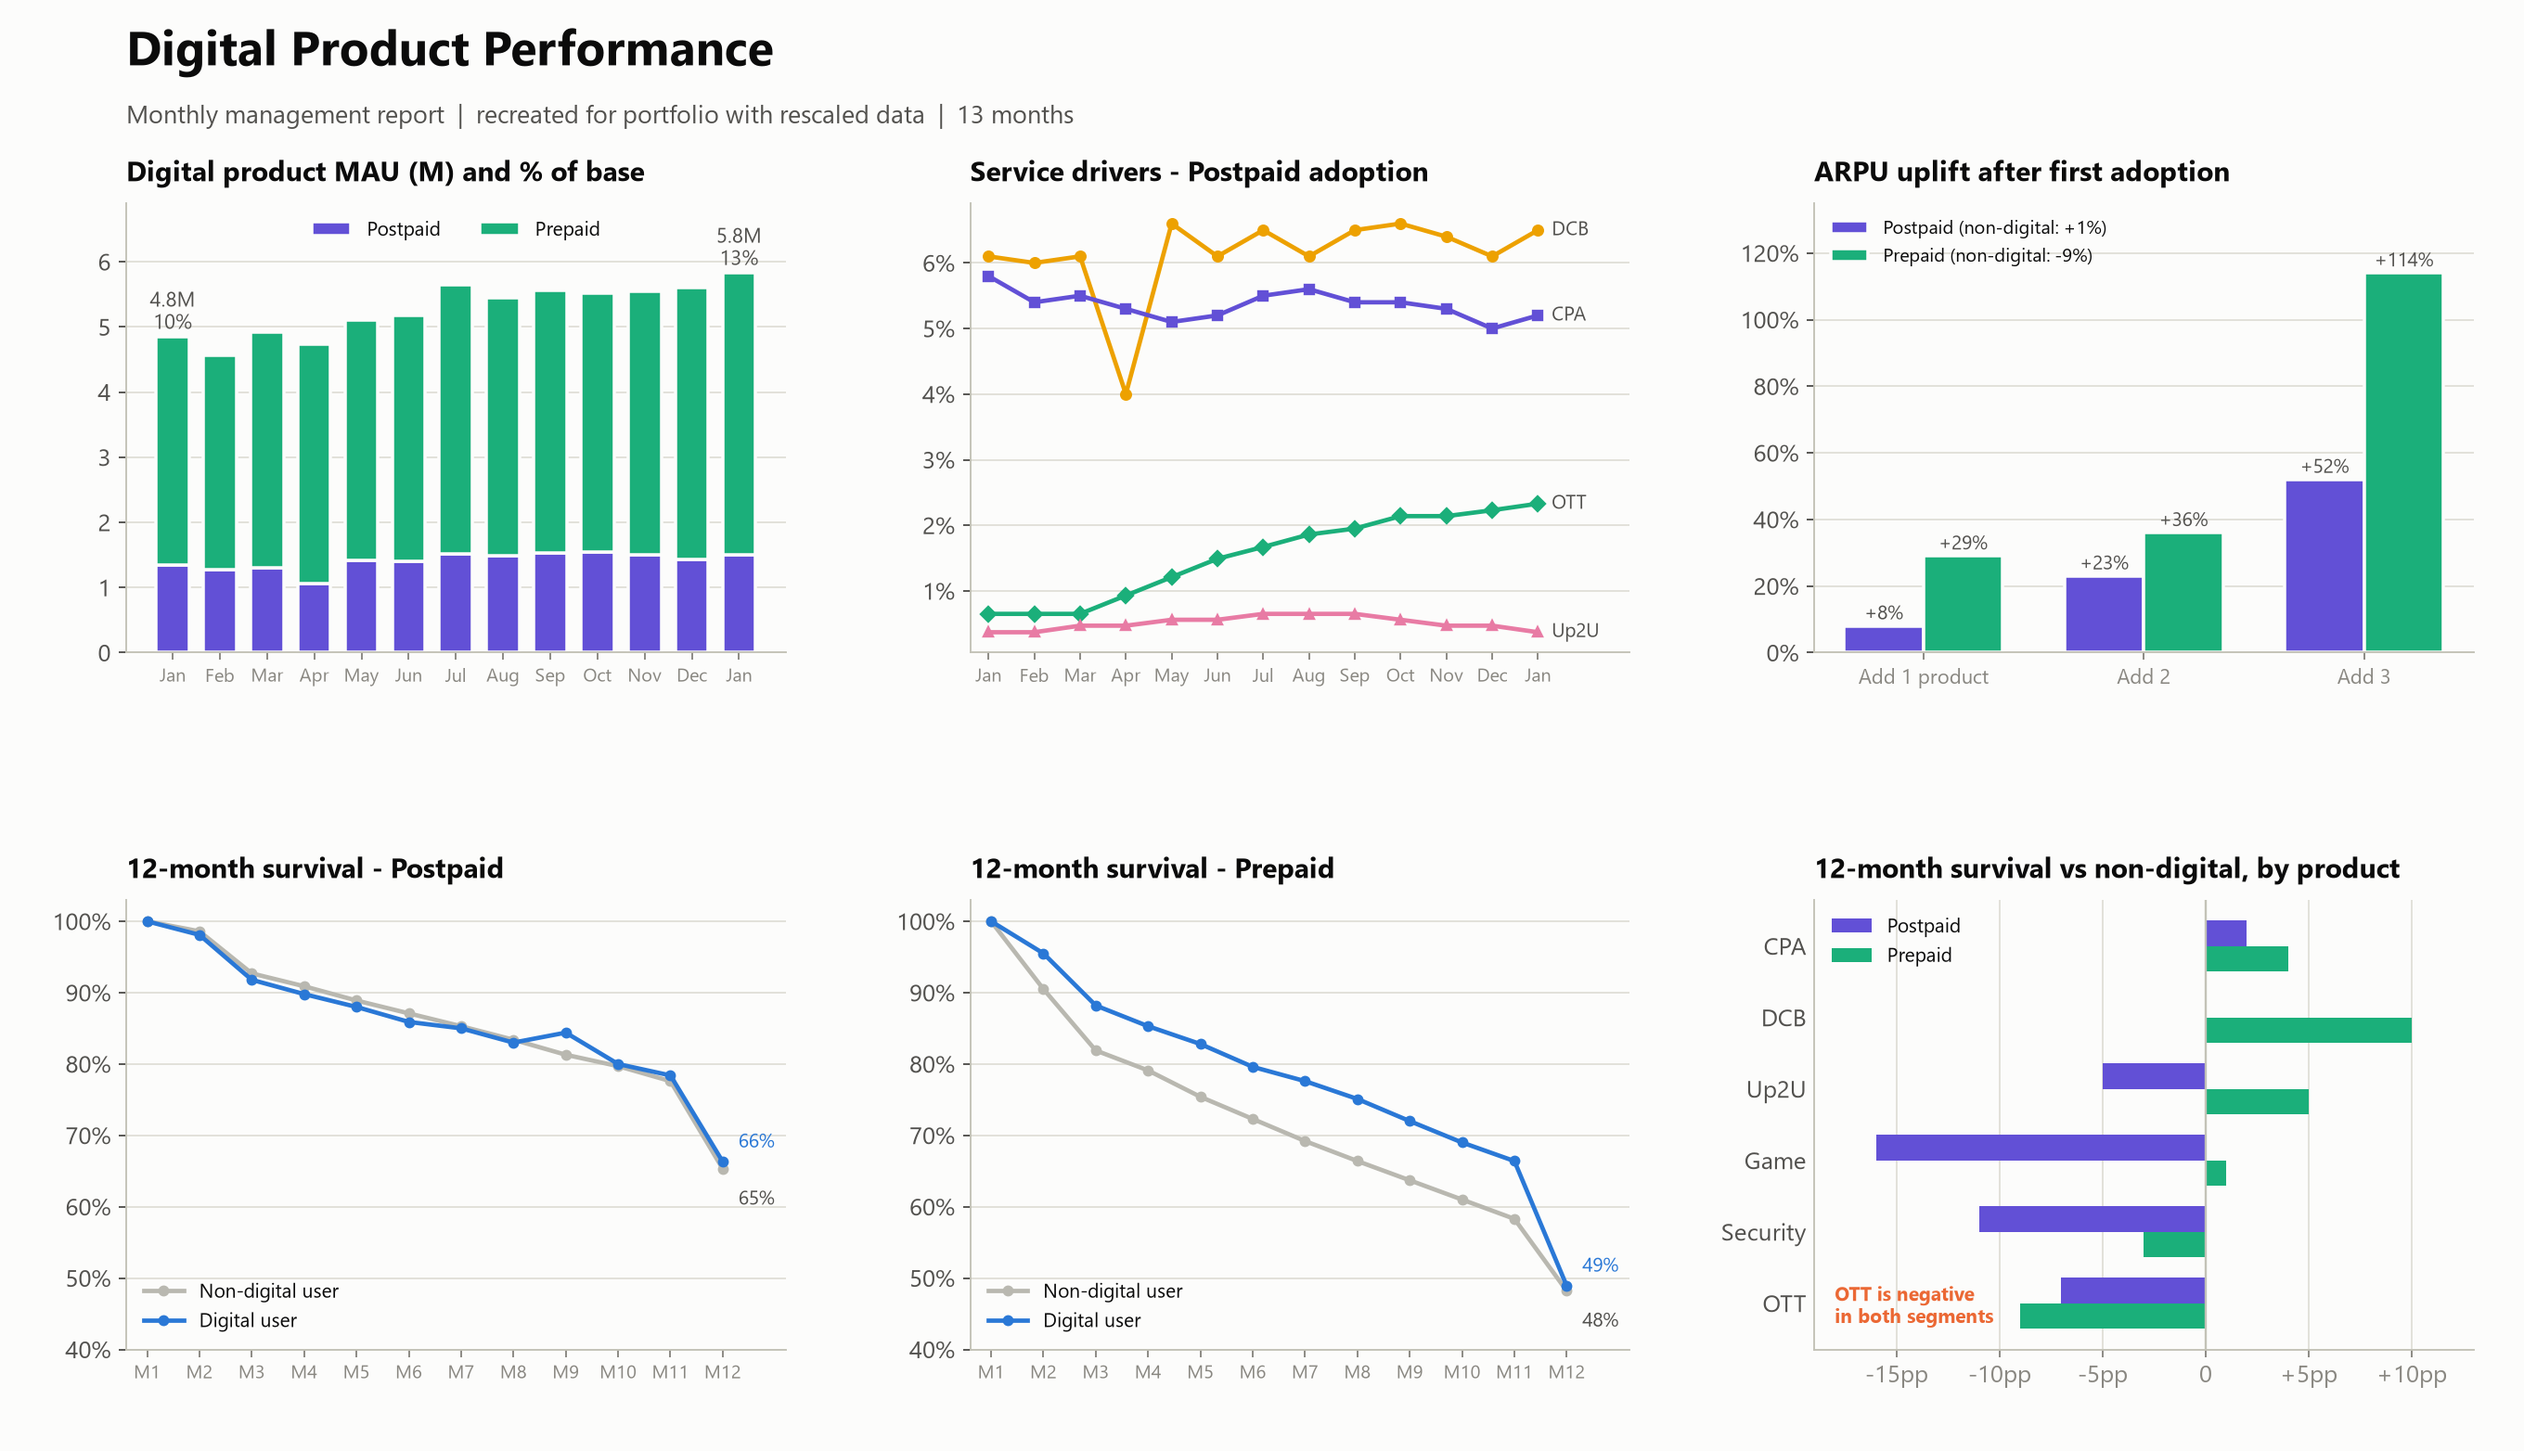
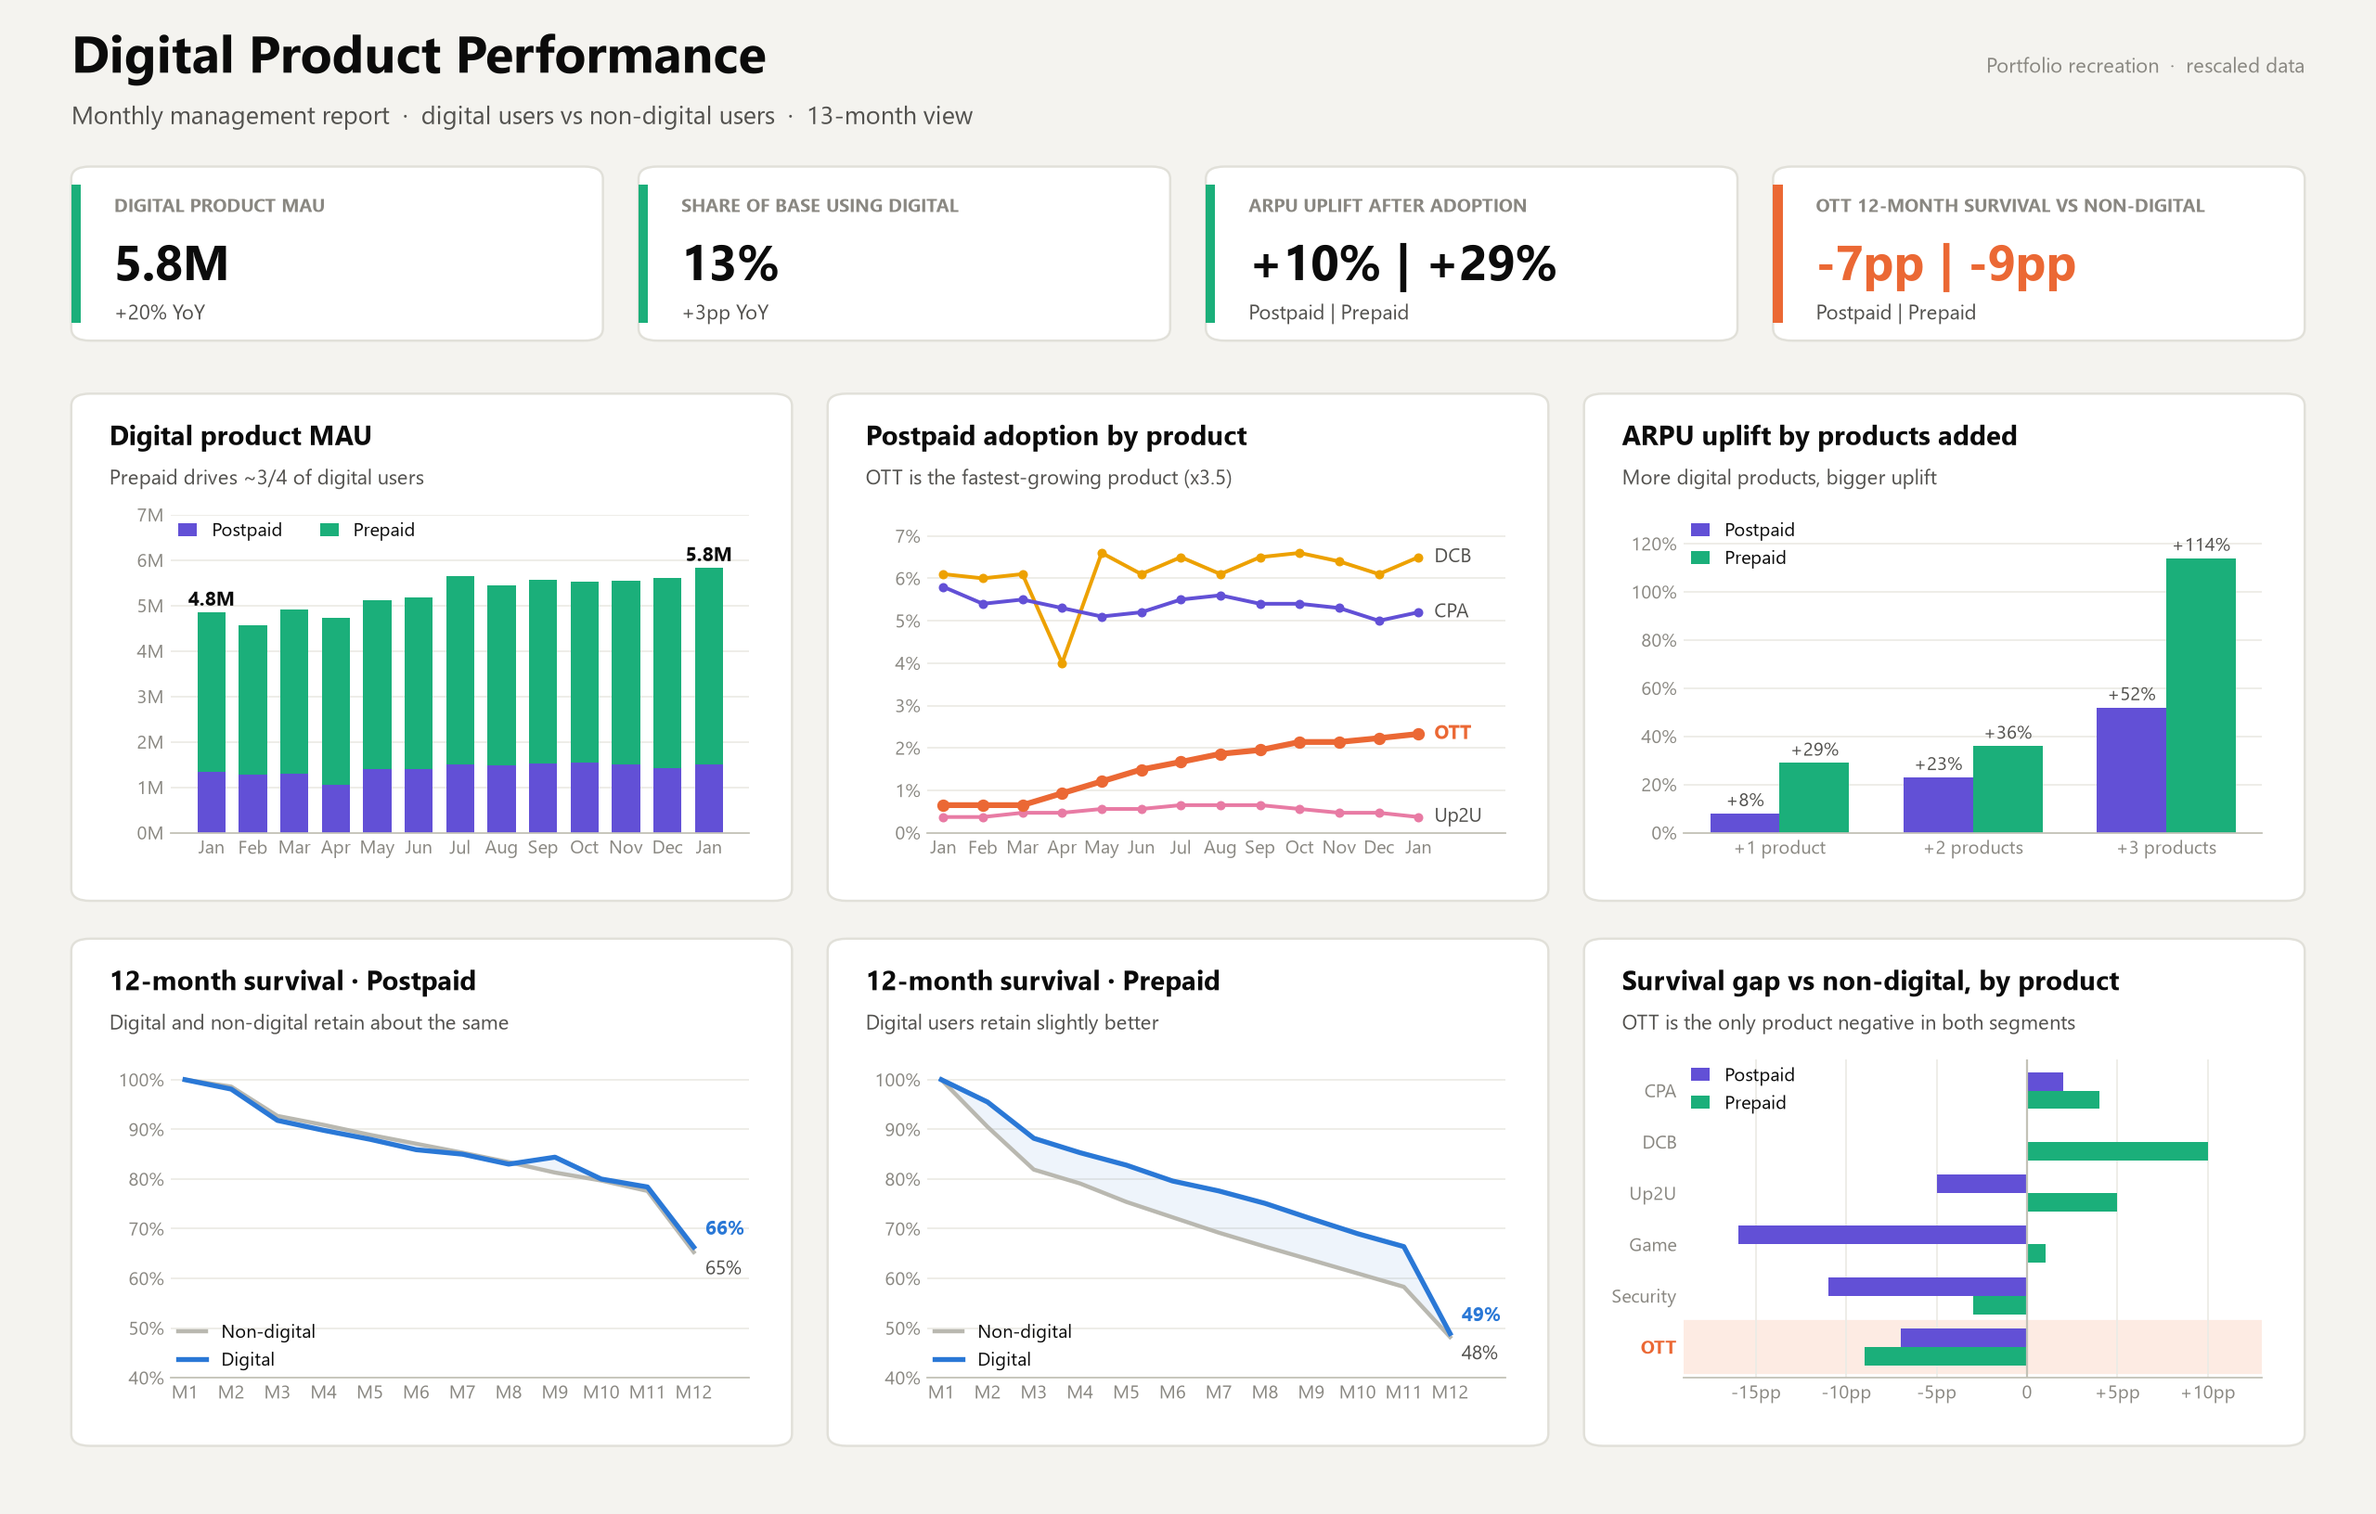
Redesign report visuals as a dashboard-style page

diff --git a/docs/make_charts.py b/docs/make_charts.py
@@ -38,6 +38,9 @@ def grid_y(ax):
     ax.grid(axis="y", color=GRID, lw=0.8); ax.set_axisbelow(True)
 
 # ---------------------------------------------------------------- 00 one-page report (Part 1)
+from matplotlib.patches import FancyBboxPatch
+
+PAGE, CARD, LINE = "#f4f3ef", "#ffffff", "#e1e0d9"
 MON = ["Jan", "Feb", "Mar", "Apr", "May", "Jun", "Jul", "Aug", "Sep", "Oct", "Nov", "Dec", "Jan"]
 mau_po = [1.34, 1.28, 1.30, 1.06, 1.41, 1.40, 1.51, 1.49, 1.53, 1.54, 1.50, 1.43, 1.50]
 mau_pp = [3.51, 3.28, 3.62, 3.68, 3.70, 3.78, 4.13, 3.96, 4.03, 3.98, 4.05, 4.18, 4.33]
@@ -46,72 +49,112 @@ drv = {"DCB": [.061, .060, .061, .040, .066, .061, .065, .061, .065, .066, .064,
        "CPA": [.058, .054, .055, .053, .051, .052, .055, .056, .054, .054, .053, .050, .052],
        "OTT": [.0065, .0065, .0065, .0093, .0121, .0149, .0167, .0186, .0195, .0214, .0214, .0223, .0233],
        "Up2U": [.0037, .0037, .0047, .0047, .0056, .0056, .0065, .0065, .0065, .0056, .0047, .0047, .0037]}
-M = [f"M{i}" for i in range(1, 13)]
+M12 = [f"M{i}" for i in range(1, 13)]
 surv = {"po_dig": [1, .981, .918, .898, .880, .859, .850, .830, .844, .800, .784, .663],
         "po_non": [1, .986, .927, .909, .889, .871, .853, .834, .813, .797, .776, .653],
         "pp_dig": [1, .955, .882, .853, .828, .796, .776, .751, .720, .690, .664, .489],
         "pp_non": [1, .905, .819, .791, .754, .723, .692, .664, .637, .610, .583, .482]}
-gap_po = [("CPA", .02), ("DCB", .00), ("Up2U", -.05), ("OTT", -.07), ("Security", -.11), ("Game", -.16)]
-gap_pp = [("DCB", .10), ("Up2U", .05), ("CPA", .04), ("Game", .01), ("Security", -.03), ("OTT", -.09)]
+gap_po = {"CPA": .02, "DCB": .00, "Up2U": -.05, "Game": -.16, "Security": -.11, "OTT": -.07}
+gap_pp = {"CPA": .04, "DCB": .10, "Up2U": .05, "Game": .01, "Security": -.03, "OTT": -.09}
 
-fig = plt.figure(figsize=(16, 9.2))
-gs = fig.add_gridspec(2, 3, hspace=0.55, wspace=0.28, left=0.05, right=0.98, top=0.86, bottom=0.07)
-fig.text(0.05, 0.955, "Digital Product Performance", fontsize=22, fontweight="bold", color=INK)
-fig.text(0.05, 0.915, "Monthly management report  |  recreated for portfolio with rescaled data  |  13 months",
-         fontsize=11.5, color=INK2)
+fig = plt.figure(figsize=(16, 10.2), facecolor=PAGE)
 
-def panel(ax, t):
-    ax.set_title(t, loc="left", fontsize=12.5, fontweight="bold", color=INK, pad=10)
+def card(x, y, w, h):
+    fig.patches.append(FancyBboxPatch((x, y), w, h, boxstyle="round,pad=0,rounding_size=0.008",
+                                      transform=fig.transFigure, fc=CARD, ec=LINE, lw=1.1, zorder=-10))
 
-ax = fig.add_subplot(gs[0, 0]); panel(ax, "Digital product MAU (M) and % of base")
-ax.bar(range(13), mau_po, color=VIOLET, width=0.7, label="Postpaid", edgecolor=SURF, linewidth=1.5, zorder=2)
-ax.bar(range(13), mau_pp, bottom=mau_po, color=AQUA, width=0.7, label="Prepaid", edgecolor=SURF, linewidth=1.5, zorder=2)
+def styled(ax):
+    ax.set_facecolor(CARD)
+    for s in ("top", "right", "left"):
+        ax.spines[s].set_visible(False)
+    ax.spines["bottom"].set_color(AXIS)
+    ax.tick_params(axis="both", labelsize=9, length=0, colors=MUTED)
+    ax.grid(axis="y", color="#ecebe6", lw=0.8); ax.set_axisbelow(True)
+
+# header
+fig.text(0.03, 0.952, "Digital Product Performance", fontsize=25, fontweight="bold", color=INK)
+fig.text(0.03, 0.918, "Monthly management report  ·  digital users vs non-digital users  ·  13-month view", fontsize=12, color=INK2)
+fig.text(0.97, 0.952, "Portfolio recreation  ·  rescaled data", fontsize=10, color=MUTED, ha="right")
+
+# KPI tiles
+kpis = [("Digital product MAU", "5.8M", "+20% YoY", AQUA),
+        ("Share of base using digital", "13%", "+3pp YoY", AQUA),
+        ("ARPU uplift after adoption", "+10% | +29%", "Postpaid | Prepaid", AQUA),
+        ("OTT 12-month survival vs non-digital", "-7pp | -9pp", "Postpaid | Prepaid", ORANGE)]
+tw = (0.94 - 3 * 0.015) / 4
+for i, (lab, val, sub, c) in enumerate(kpis):
+    x = 0.03 + i * (tw + 0.015); y = 0.775; h = 0.115
+    card(x, y, tw, h)
+    fig.patches.append(plt.Rectangle((x, y + 0.012), 0.004, h - 0.024, transform=fig.transFigure, fc=c, ec="none", zorder=-5))
+    fig.text(x + 0.018, y + h - 0.03, lab.upper(), fontsize=9, color=MUTED, fontweight="bold")
+    fig.text(x + 0.018, y + 0.040, val, fontsize=24, fontweight="bold", color=ORANGE if c == ORANGE else INK)
+    fig.text(x + 0.018, y + 0.014, sub, fontsize=10, color=INK2)
+
+# panel grid
+pw = (0.94 - 2 * 0.015) / 3; ph = 0.335
+slots = [(0.03 + c * (pw + 0.015), 0.405 if r == 0 else 0.045) for r in range(2) for c in range(3)]
+
+def panel(i, t, takeaway):
+    x, y = slots[i]
+    card(x, y, pw, ph)
+    fig.text(x + 0.016, y + ph - 0.034, t, fontsize=13, fontweight="bold", color=INK)
+    fig.text(x + 0.016, y + ph - 0.06, takeaway, fontsize=10, color=INK2)
+    ax = fig.add_axes([x + 0.042, y + 0.045, pw - 0.06, ph - 0.125], zorder=5)
+    styled(ax)
+    return ax
+
+ax = panel(0, "Digital product MAU", "Prepaid drives ~3/4 of digital users")
+ax.bar(range(13), mau_po, color=VIOLET, width=0.68, label="Postpaid", zorder=2)
+ax.bar(range(13), mau_pp, bottom=mau_po, color=AQUA, width=0.68, label="Prepaid", zorder=2)
 for i in (0, 12):
-    tot = mau_po[i] + mau_pp[i]
-    ax.text(i, tot + 0.12, f"{tot:.1f}M\n{dig_pct[i]:.0%}", ha="center", fontsize=9.5, color=INK2)
-ax.set_xticks(range(13), MON, fontsize=8.5); ax.set_ylim(0, 6.9); grid_y(ax)
-ax.legend(frameon=False, fontsize=9, loc="upper center", ncol=2)
+    ax.text(i, mau_po[i] + mau_pp[i] + 0.15, f"{mau_po[i]+mau_pp[i]:.1f}M", ha="center", fontsize=9.5, color=INK, fontweight="bold")
+ax.set_xticks(range(13), MON); ax.set_ylim(0, 7); ax.yaxis.set_major_formatter(FuncFormatter(lambda v, _: f"{v:.0f}M"))
+ax.legend(frameon=False, fontsize=9, loc="upper left", ncol=2, handlelength=1, borderaxespad=0)
 
-ax = fig.add_subplot(gs[0, 1]); panel(ax, "Service drivers - Postpaid adoption")
-for (k, ys), c, mk in zip(drv.items(), [YELLOW, VIOLET, AQUA, MAGENTA], ["o", "s", "D", "^"]):
-    ax.plot(range(13), ys, color=c, lw=2, marker=mk, ms=4.5, label=k)
-    ax.text(12.3, ys[-1], k, fontsize=9, color=INK2, va="center")
-ax.set_xticks(range(13), MON, fontsize=8.5); ax.set_xlim(-0.4, 14)
-ax.yaxis.set_major_formatter(PercentFormatter(1, decimals=0)); grid_y(ax)
+ax = panel(1, "Postpaid adoption by product", "OTT is the fastest-growing product (x3.5)")
+for (k, ys), c in zip(drv.items(), [YELLOW, VIOLET, ORANGE, MAGENTA]):
+    lw = 2.8 if k == "OTT" else 1.8
+    ax.plot(range(13), ys, color=c, lw=lw, marker="o", ms=3.5 if k != "OTT" else 5, zorder=3 if k == "OTT" else 2)
+    ax.text(12.4, ys[-1], k, fontsize=9.5, color=c if k == "OTT" else INK2, va="center", fontweight="bold" if k == "OTT" else "normal")
+ax.set_xticks(range(13), MON); ax.set_xlim(-0.4, 14.2); ax.set_ylim(0, 0.075)
+ax.yaxis.set_major_formatter(PercentFormatter(1, decimals=0))
 
-ax = fig.add_subplot(gs[0, 2]); panel(ax, "ARPU uplift after first adoption")
-cats = ["Add 1 product", "Add 2", "Add 3"]; po = [.08, .23, .52]; pp = [.29, .36, 1.14]
+ax = panel(2, "ARPU uplift by products added", "More digital products, bigger uplift")
+cats = ["+1 product", "+2 products", "+3 products"]; po = [.08, .23, .52]; pp = [.29, .36, 1.14]
 x = range(3); w = 0.36
-b1 = ax.bar([i - w / 2 for i in x], po, w, color=VIOLET, label="Postpaid (non-digital: +1%)", edgecolor=SURF, linewidth=1.5, zorder=2)
-b2 = ax.bar([i + w / 2 for i in x], pp, w, color=AQUA, label="Prepaid (non-digital: -9%)", edgecolor=SURF, linewidth=1.5, zorder=2)
+b1 = ax.bar([i - w / 2 for i in x], po, w, color=VIOLET, label="Postpaid", zorder=2)
+b2 = ax.bar([i + w / 2 for i in x], pp, w, color=AQUA, label="Prepaid", zorder=2)
 for bars in (b1, b2):
     for b in bars:
-        ax.text(b.get_x() + b.get_width() / 2, b.get_height() + 0.02, f"+{b.get_height():.0%}", ha="center", fontsize=9, color=INK2)
-ax.set_xticks(list(x), cats, fontsize=9.5); ax.yaxis.set_major_formatter(PercentFormatter(1, decimals=0))
-ax.set_ylim(0, 1.35); grid_y(ax); ax.legend(frameon=False, fontsize=8.5, loc="upper left")
+        ax.text(b.get_x() + b.get_width() / 2, b.get_height() + 0.03, f"+{b.get_height():.0%}", ha="center", fontsize=9, color=INK2)
+ax.set_xticks(list(x), cats); ax.yaxis.set_major_formatter(PercentFormatter(1, decimals=0)); ax.set_ylim(0, 1.32)
+ax.legend(frameon=False, fontsize=9, loc="upper left", handlelength=1, borderaxespad=0)
 
-for col, seg in [(0, "po"), (1, "pp")]:
-    ax = fig.add_subplot(gs[1, col]); panel(ax, f"12-month survival - {'Postpaid' if seg == 'po' else 'Prepaid'}")
-    ax.plot(M, surv[f"{seg}_non"], color=GRAY, lw=2, marker="o", ms=4, label="Non-digital user")
-    ax.plot(M, surv[f"{seg}_dig"], color=BLUE, lw=2, marker="o", ms=4, label="Digital user")
-    ax.text(11.3, surv[f"{seg}_dig"][-1] + 0.02, f"{surv[f'{seg}_dig'][-1]:.0%}", fontsize=9, color=BLUE)
-    ax.text(11.3, surv[f"{seg}_non"][-1] - 0.05, f"{surv[f'{seg}_non'][-1]:.0%}", fontsize=9, color=INK2)
-    ax.set_xlim(-0.4, 12.2); ax.set_ylim(0.4, 1.03); ax.tick_params(axis="x", labelsize=8.5)
-    ax.yaxis.set_major_formatter(PercentFormatter(1, decimals=0)); grid_y(ax)
-    ax.legend(frameon=False, fontsize=9, loc="lower left")
+for idx, seg, take in [(3, "po", "Digital and non-digital retain about the same"), (4, "pp", "Digital users retain slightly better")]:
+    ax = panel(idx, f"12-month survival · {'Postpaid' if seg == 'po' else 'Prepaid'}", take)
+    d, n = surv[f"{seg}_dig"], surv[f"{seg}_non"]
+    ax.fill_between(range(12), d, n, color=BLUE, alpha=0.08, lw=0)
+    ax.plot(range(12), n, color=GRAY, lw=2, label="Non-digital")
+    ax.plot(range(12), d, color=BLUE, lw=2.4, label="Digital")
+    ax.text(11.25, d[-1] + 0.025, f"{d[-1]:.0%}", fontsize=9.5, color=BLUE, fontweight="bold")
+    ax.text(11.25, n[-1] - 0.045, f"{n[-1]:.0%}", fontsize=9.5, color=INK2)
+    ax.set_xticks(range(12), M12); ax.set_xlim(-0.3, 12.2); ax.set_ylim(0.4, 1.04)
+    ax.yaxis.set_major_formatter(PercentFormatter(1, decimals=0))
+    ax.legend(frameon=False, fontsize=9, loc="lower left", handlelength=1.5, borderaxespad=0)
 
-ax = fig.add_subplot(gs[1, 2]); panel(ax, "12-month survival vs non-digital, by product")
-prods = ["CPA", "DCB", "Up2U", "Game", "Security", "OTT"]
-dpo = dict(gap_po); dpp = dict(gap_pp); y = range(len(prods))[::-1]; h = 0.36
-ax.barh([i + h / 2 for i in y], [dpo[p] for p in prods], h, color=VIOLET, label="Postpaid", zorder=2)
-ax.barh([i - h / 2 for i in y], [dpp[p] for p in prods], h, color=AQUA, label="Prepaid", zorder=2)
+ax = panel(5, "Survival gap vs non-digital, by product", "OTT is the only product negative in both segments")
+prods = ["CPA", "DCB", "Up2U", "Game", "Security", "OTT"]; ys = list(range(len(prods)))[::-1]; h = 0.36
+ax.axhspan(-0.5, 0.5, color="#fdebe3", zorder=0)
+ax.barh([i + h / 2 for i in ys], [gap_po[p] for p in prods], h, color=VIOLET, label="Postpaid", zorder=2)
+ax.barh([i - h / 2 for i in ys], [gap_pp[p] for p in prods], h, color=AQUA, label="Prepaid", zorder=2)
 ax.axvline(0, color=AXIS, lw=1)
-ax.set_yticks(list(y), prods); ax.tick_params(axis="y", length=0)
+ax.set_yticks(ys, prods); ax.get_yticklabels()[-1].set_color(ORANGE); ax.get_yticklabels()[-1].set_fontweight("bold")
+ax.grid(axis="y", visible=False); ax.grid(axis="x", color="#ecebe6", lw=0.8)
 ax.xaxis.set_major_formatter(FuncFormatter(lambda v, _: f"{v*100:+.0f}pp" if v else "0"))
-ax.set_xlim(-0.19, 0.13); ax.grid(axis="x", color=GRID, lw=0.8); ax.set_axisbelow(True)
-ax.text(-0.18, 0 - 0.05, "OTT is negative\nin both segments", fontsize=9, color=ORANGE, fontweight="bold", va="center")
-ax.legend(frameon=False, fontsize=9, loc="upper left")
-fig.savefig(os.path.join(OUT, "00_digital_product_report.png"), dpi=170)
+ax.set_xlim(-0.19, 0.13); ax.set_ylim(-0.6, 5.6)
+ax.legend(frameon=False, fontsize=9, loc="upper left", handlelength=1, borderaxespad=0)
+
+fig.savefig(os.path.join(OUT, "00_digital_product_report.png"), dpi=160, facecolor=PAGE)
 plt.close(fig)
 
 # ---------------------------------------------------------------- Part 2 charts
